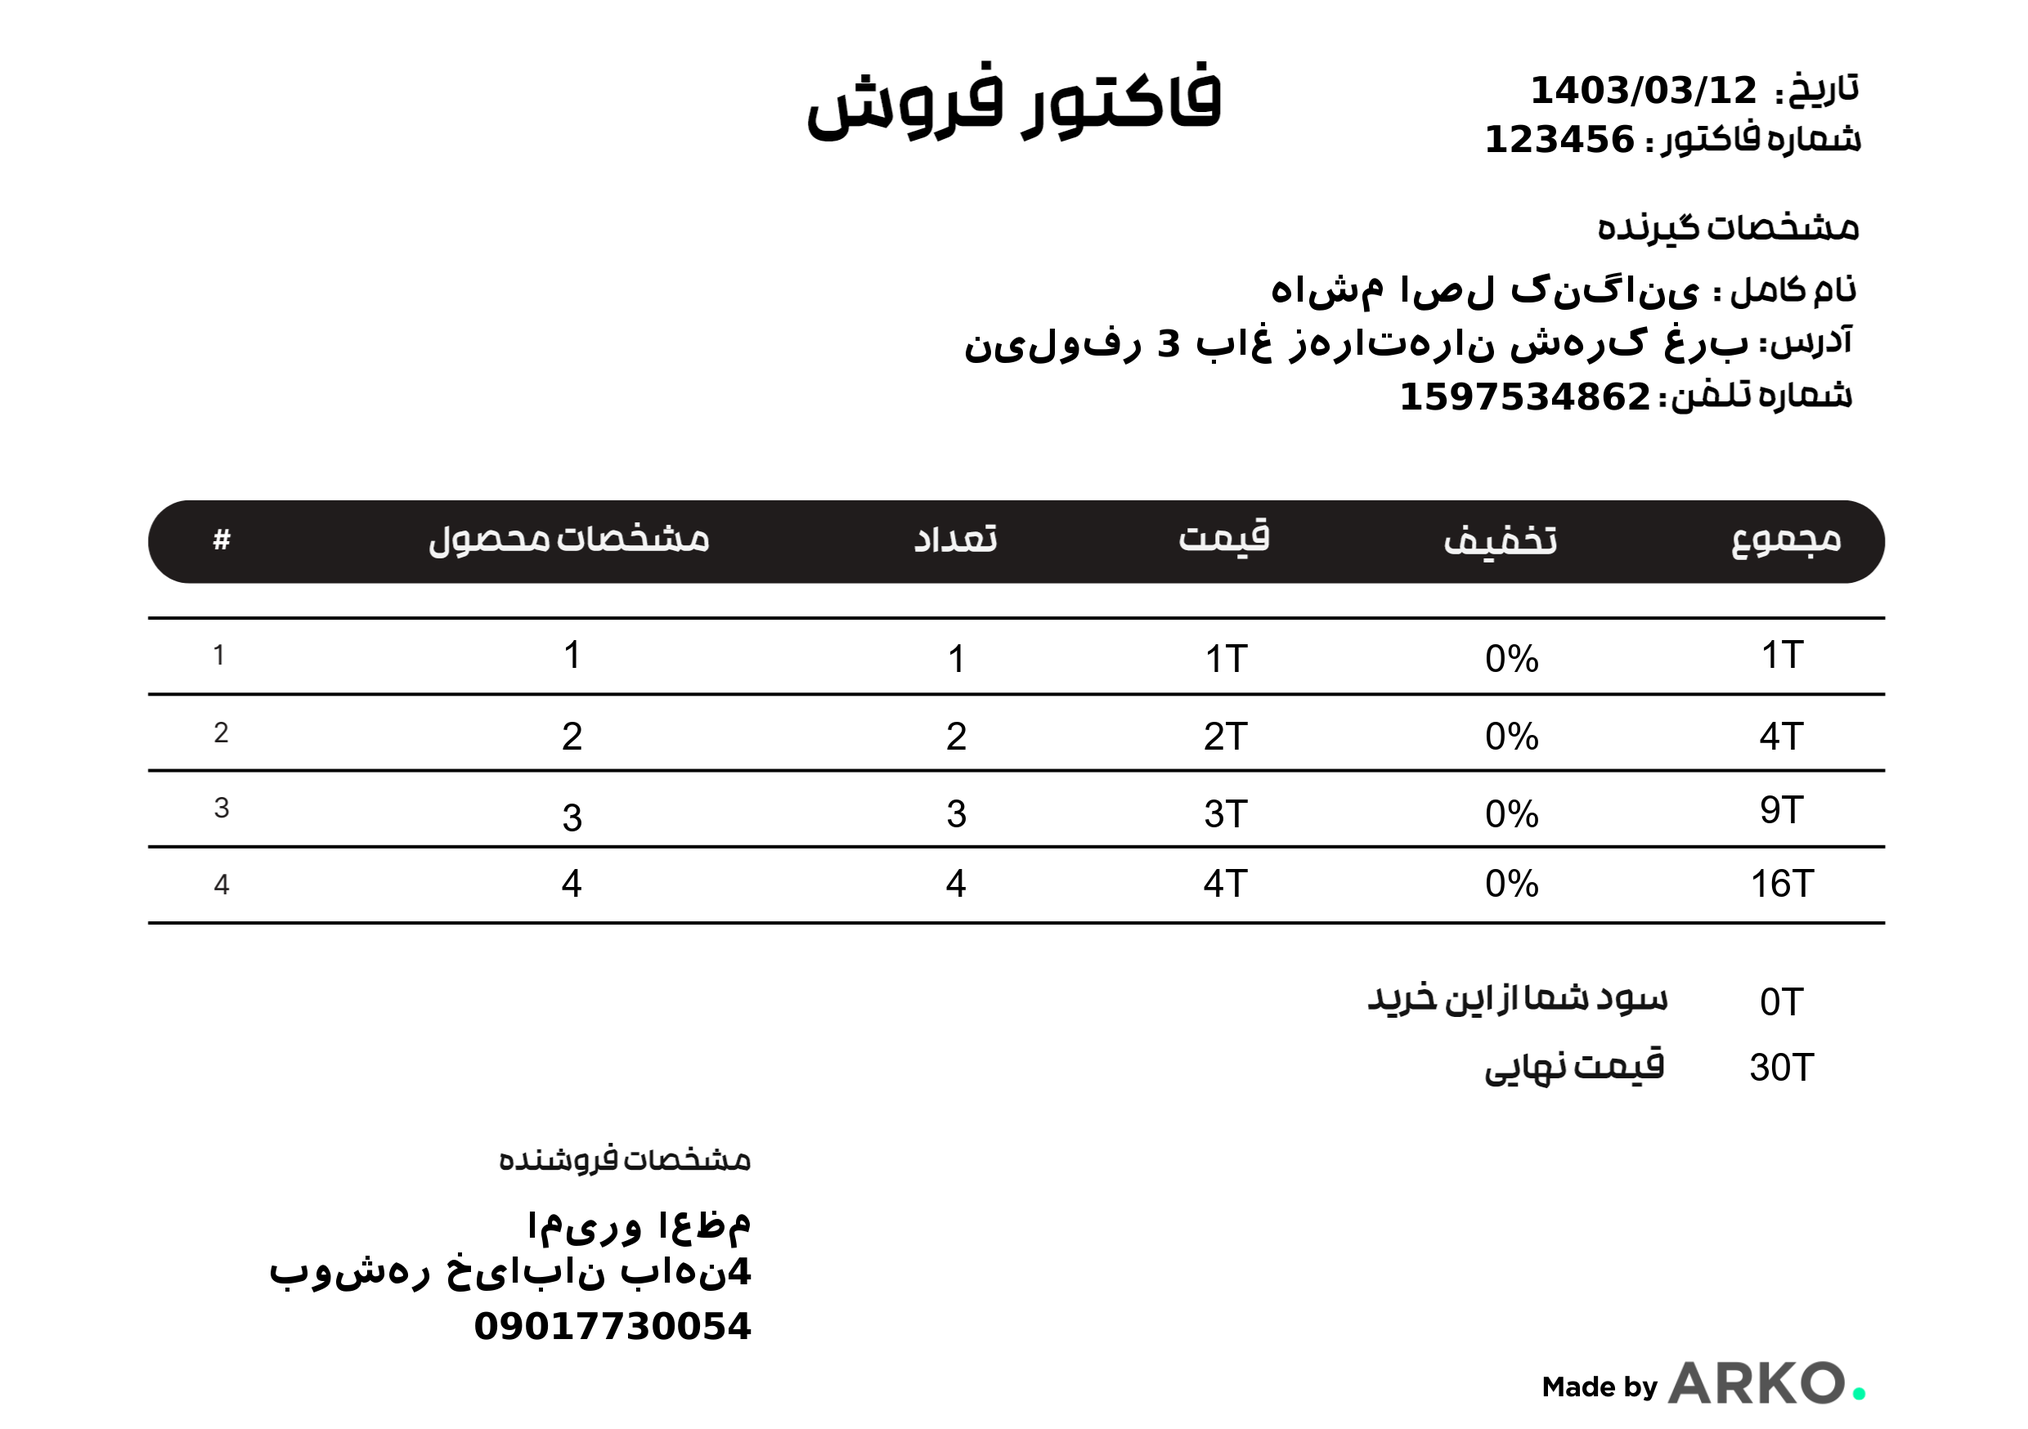
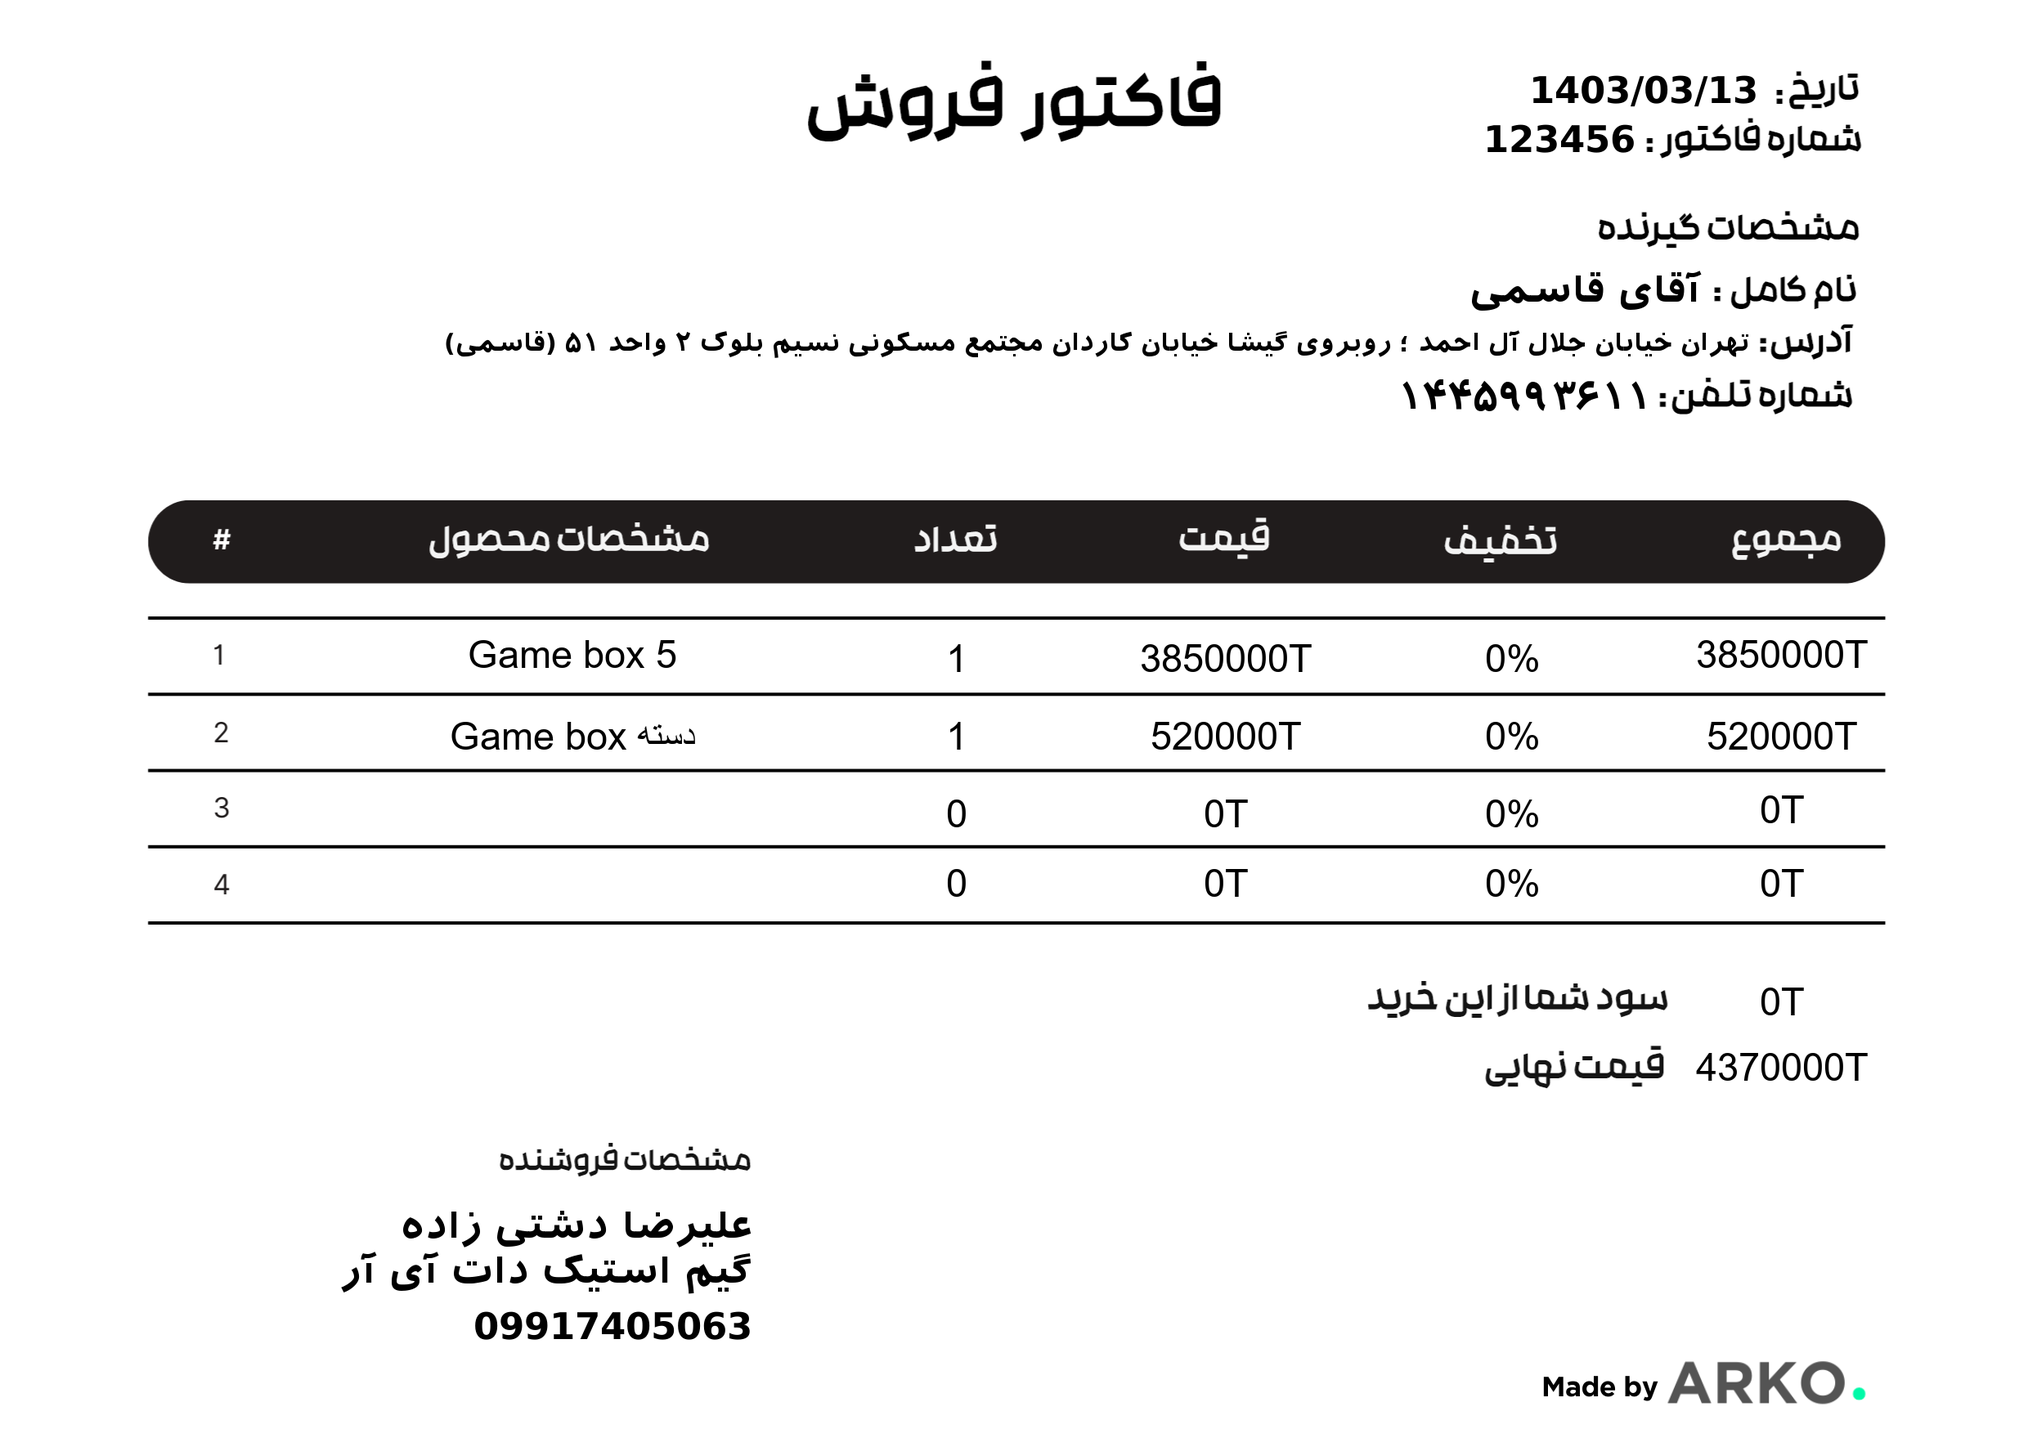
aaaaaa

diff --git a/app/Labelmain.py b/app/Labelmain.py
@@ -17,12 +17,15 @@ def main():
     resetdata()
 
 
-
-LabelInfo={
-    "name" :"",
-    "address" : "",
-    "phone" :"",
-    "Zip" : "",
+sample_data = {
+    "name":"",
+    "address": "",
+    "phone": "",
+    "Zip":"",
+    "seller_name":"امیرو اعظم",
+    "seller_address":"بوشهر خیابان باهنر نبش نیلوفر 3 واحد 4",
+    "seller_number": "09017730054",
+    "seller_postcode" : "159487263",
 }
 InvoiceInfo={
 
@@ -34,6 +37,7 @@ InvoiceInfo={
     'seller_name':"امیرو اعظم",
     "seller_address":"بوشهر خیابان باهن4",
     "seller_number": "09017730054",
+    "seller_zip":"",
     "invoice_num" : "123456",
     "product_name1":"",
     "product_name2":"",
@@ -69,6 +73,7 @@ def resetdata():
     'seller_name':"امیرو اعظم",
     "seller_address":"بوشهر خیابان باهن4",
     "seller_number": "09017730054",
+    "seller_zip":"",
     "invoice_num" : "123456",
     "product_name1":"",
     "product_name2":"",
@@ -88,15 +93,19 @@ def resetdata():
     'qty4': 0,
 }
       LabelInfo={
-    "name" :"",
-    "address" : "",
-    "phone" :"",
-    "Zip" : "",
+    "name":"",
+    "address": "",
+    "phone": "",
+    "Zip":"",
+    "seller_name":"امیرو اعظم",
+    "seller_address":"بوشهر خیابان باهنر نبش نیلوفر 3 واحد 4",
+    "seller_number": "09017730054",
+    "seller_postcode" : "159487263",
         }
 
 def LabelMaker(message):
         
-        LabelInfo.update({"address":message.text})
+        SetSellerInfo(message.from_user.username,LabelInfo)
         img=  Label_class.create_label(LabelInfo)
         img.save("texttest.Png")
         bot.send_photo(message.chat.id,open("texttest.Png","rb"))
@@ -104,30 +113,40 @@ def LabelMaker(message):
         Database.LoseCredits(message.from_user.username)
         resetdata()
 
+def AskCustomerInfoLabel(message):
+    bot.send_message(message.chat.id,"لطفا متن زیر را کپی کنید و اطلاعات مشتری را جایگذاری کنید")
+    bot.send_message(message.chat.id,"نام و نام خانوادگی :\nآدرس :\nشماره تماس :\nکدپستی :")
+    bot.register_next_step_handler(message,lambda m:SetCustomerInfoLabel(m))
 
-def AskName(message):
-        print(LabelInfo)
-        bot.send_message(message.chat.id,"لطفا نام گیرنده را بنویسید")
-        bot.register_next_step_handler(message,AskZip)
+def SetCustomerInfoLabel(message):
+    x=  message.text.splitlines()
+    y=[]
+    info=[]
+    for i in x:
+        for z in (i.split(":")):
+              y.append(z)
+    for i in range(1,8,2):
+        info.append(y[i].strip())
+    LabelInfo.update({"name":info[0]})
+    LabelInfo.update({"address":info[1]})
+    LabelInfo.update({"phone":info[2]})
+    LabelInfo.update({"Zip":info[3]})
+    print(info)
+    LabelMaker(message)
 
-def AskZip(message):
-        print(LabelInfo)
-        LabelInfo.update({"name": message.text})
-        bot.send_message(message.chat.id,"کد پستی وارد کن")
-        bot.register_next_step_handler(message,AskNumLabel)
 
-def AskNumLabel(message):
-        print(LabelInfo)
-        LabelInfo.update({"Zip": message.text})
-        bot.send_message(message.chat.id,"شماره تلفن بزن")
-        bot.register_next_step_handler(message,AskAdrs)    
 
-def AskAdrs(message):
-        print(LabelInfo)
-        LabelInfo.update({"phone": message.text})
-        bot.send_message(message.chat.id,"آدرستم بزن دیکه")
 
-        bot.register_next_step_handler(message,LabelMaker)
+
+
+
+def AskCustomerInfoInvoice(message):
+    
+    bot.send_message(message.chat.id,"لطفا متن زیر را کپی کنید و اطلاعات مشتری را جایگذاری کنید")
+    bot.send_message(message.chat.id,"نام و نام خانوادگی :\nآدرس :\nشماره تماس :")
+    bot.register_next_step_handler(message,lambda m:SetCustomerInfoInvoice(m))
+    bot.register_next_step_handler(message,lambda m:AskItem(m))
+
 
 
 def AskItem(message):
@@ -146,18 +165,27 @@ def SetQuant(message):
         
         BaseName(message,order)
 
+
+
 def BaseName(message,order):
         global itemQuant
         print("order:"+str(order))
         print("message.text:"+message.text)
         print(InvoiceInfo)
         if(itemQuant>0):
-            bot.send_message(message.chat.id,str(order)+"-اسم محصولتان را بنویسید")
-
-            bot.register_next_step_handler(message,lambda m: AskPrice(m,order))
+            AskProductName(message)
         else:
+            SetSellerInfo(message.from_user.username,InvoiceInfo)
             PrintFunc(message)
-          
+
+
+
+
+def AskProductName(message):
+    bot.send_message(message.chat.id,str(order)+"-اسم محصولتان را بنویسید")
+    bot.register_next_step_handler(message,lambda m: AskPrice(m,order))
+
+
 def AskPrice(message,order):
         Prodname=message.text
         InvoiceInfo.update({"product_name"+str(order):Prodname})
@@ -176,7 +204,6 @@ def SetNum(message,order):
         InvoiceInfo.update({"qty"+str(order):int(message.text)})
         itemQuant-=1
         SetQuant(message)
-        
         print(InvoiceInfo)
         
 def PrintFunc(message):
@@ -187,27 +214,64 @@ def PrintFunc(message):
         print(InvoiceInfo)
         Database.LoseCredits(message.from_user.username)
         resetdata()
-def AskInfo(message):
-    bot.send_message(message.chat.id,"لطفا متن زیر را کپی کنید و اطلاعات خودرا جایگذاری کنید")
-    bot.send_message(message.chat.id,"نام و نام خانوادگی :\nآدرس فروشگاه :\nشماره تماس :")
-    bot.register_next_step_handler(message,lambda m:SetInfo(m))
 
-def SetInfo(message):
+
+
+
+
+
+
+
+#get and set User&Customer info
+
+def AskUserInfo(message):
+    bot.send_message(message.chat.id,"لطفا متن زیر را کپی کنید و اطلاعات خودرا جایگذاری کنید")
+    bot.send_message(message.chat.id,"نام و نام خانوادگی :\nآدرس فروشگاه :\nشماره تماس :\nکدپستی :")
+    bot.register_next_step_handler(message,lambda m:UpdateUserInfo(m))
+
+def UpdateUserInfo(message):
     x=  message.text.splitlines()
     y=[]
     info=[]
     for i in x:
         for z in (i.split(":")):
               y.append(z)
-
-    for i in range(1,6,2):
-          print(i)
-          info.append(y[i].strip())
-
+    for i in range(1,8,2):
+        info.append(y[i].strip())
     print(info)
     x=Database.UpdateShopInfo(message.from_user.username,info)
     if(x):
         bot.send_message(message.chat.id,"اطلاعات با موفقیت آپدیت شد!")
+
+def SetCustomerInfoInvoice(message):
+    x=  message.text.splitlines()
+    y=[]
+    info=[]
+    for i in x:
+        for z in (i.split(":")):
+              y.append(z)
+    for i in range(1,6,2):
+        info.append(y[i].strip())
+    InvoiceInfo.update({"name":info[0]})
+    InvoiceInfo.update({"address":info[1]})
+    InvoiceInfo.update({"phone":info[2]})
+    
+
+
+def SetSellerInfo(username,VarInfo):
+
+    info = Database.GetInfo(username)
+    
+    VarInfo.update({"seller_name":info[0]})
+    VarInfo.update({"seller_address":info[1]})
+    VarInfo.update({"seller_number":info[2]})
+    if(VarInfo==LabelInfo):      
+        VarInfo.update({"seller_zip":info[3]})
+    
+
+#####
+
+
 
 
 def ChooseMarkup():
@@ -220,6 +284,7 @@ def ChooseMarkup():
 def CreateNewUser(UserName,message):
       bot.send_message(message.chat.id,"سلام عزیز به ربات خوش اومدی\n بنظر میاد که بار اولته که با ربات ما کار میکنی \n برای شروع کار بهت 10 تا شارژ برای کار با ربات تعلق میگیره!")
       x=Database.CreateUser(UserName)
+      
       if(x==True):
             Startcommand(message)
 
@@ -244,13 +309,15 @@ def Startcommand(message):
 @bot.callback_query_handler(func=lambda pol:True)
 def callbackquery(pol):
     if(pol.data =="Label"):
-        AskName(pol.message)
+        resetdata()
+        AskCustomerInfoLabel(pol.message)
     if(pol.data=="Invoice"):
-        AskItem(pol.message)
+        resetdata()
+        AskCustomerInfoInvoice(pol.message)
     if(pol.data=="Charge"):
         print("Charge")
     if(pol.data=="Info"):
-        AskInfo(pol.message)
+        AskUserInfo(pol.message)
         
 
 

diff --git a/app/lilbaby.py b/app/lilbaby.py
@@ -2,13 +2,6 @@ from PIL import Image, ImageFont, ImageDraw
 import arabic_reshaper
 from bidi.algorithm import get_display
 
-seller_data={
-    'seller_name':'امیرو اعظم',
-    'seller_address':'بوشهر خیابان باهنر نبش نیلوفر 3 واحد 4',
-    'seller_number': '09017730054',
-    'seller_postcode' : '159487263',
-
-}
 def convert(text):
     reshaped_text = arabic_reshaper.reshape(text)
     converted = get_display(reshaped_text)
@@ -20,14 +13,14 @@ def create_label(data):
     draw = ImageDraw.Draw(img)
     # Load a font (you can specify your own font file)
     font = ImageFont.truetype("IranianSansBold.ttf", 24)
-    draw.text((1300, 80), f"{(seller_data['seller_name'])}{('نام:')}", fill='black',anchor="rm" , font=font)
-    draw.text((1300, 115), f"{(seller_data['seller_address'])}{('آدرس:')}", fill='black',anchor="rm", font=font)
-    draw.text((1300, 155), f"{seller_data['seller_postcode']}{('کدپستی:')}", fill='black',anchor="rm", font=font)
-    draw.text((1300, 190), f"{seller_data['seller_number']}{('شماره تلفن:')}", fill='black',anchor="rm", font=font)
-    draw.text((1300, 255), f"{(data['name'])}{('نام:')}", fill='black',anchor="rm" , font=font)
-    draw.text((1300, 290), f"{(data['address'])}{('آدرس:')}", fill='black',anchor="rm", font=font)
-    draw.text((1300, 330), f"{data['Zip']}{('کدپستی:')}", fill='black',anchor="rm", font=font)
-    draw.text((1300, 370), f"{data['phone']}{('شماره تلفن:')}", fill='black',anchor="rm", font=font)
+    draw.text((1300, 80), f"{convert(data['seller_name'])}{convert('نام:')}", fill='black',anchor="rm" , font=font)
+    draw.text((1300, 115), f"{convert(data['seller_address'])}{convert('آدرس:')}", fill='black',anchor="rm", font=font)
+    draw.text((1300, 155), f"{data['seller_postcode']}{convert('کدپستی:')}", fill='black',anchor="rm", font=font)
+    draw.text((1300, 190), f"{data['seller_number']}{convert('شماره تلفن:')}", fill='black',anchor="rm", font=font)
+    draw.text((1300, 255), f"{convert(data['name'])}{convert('نام:')}", fill='black',anchor="rm" , font=font)
+    draw.text((1300, 290), f"{convert(data['address'])}{convert('آدرس:')}", fill='black',anchor="rm", font=font)
+    draw.text((1300, 330), f"{data['Zip']}{convert('کدپستی:')}", fill='black',anchor="rm", font=font)
+    draw.text((1300, 370), f"{data['phone']}{convert('شماره تلفن:')}", fill='black',anchor="rm", font=font)
 
     return img
 
@@ -36,6 +29,10 @@ sample_data = {
     'address': '',
     'phone': "",
     'Zip':'',
+    'seller_name':'امیرو اعظم',
+    'seller_address':'بوشهر خیابان باهنر نبش نیلوفر 3 واحد 4',
+    'seller_number': '09017730054',
+    'seller_postcode' : '159487263',
 }
 def main():
 

diff --git a/app/fixedV2.py b/app/fixedV2.py
@@ -27,6 +27,7 @@ sample_data = {
     'seller_name':"امیرو اعظم",
     "seller_address":"بوشهر خیابان باهن4",
     "seller_number": "09017730054",
+    "seller_zip":"",
     "date" : shamsi_date(),
     "invoice_num" : "123456",
     "product_name1":"لپتاپ اپل شرکتی اصل",
@@ -128,20 +129,20 @@ def create_Invoice(data):
     font = ImageFont.truetype("IranianSansBold.ttf", 45)
     font2 = ImageFont.truetype("arial.ttf", 47)
     
-    
+    #for local testing add convert method behind the datas that represent a string name
     # Draw text on the label
-    draw.text((2080,355), f"{(data['name'])}", fill='black',anchor="rm" , font=font)
-    draw.text((2140,420), f"{(data['address'])}", fill='black',anchor="rm", font=font)
+    draw.text((2080,355), f"{convert(data['name'])}", fill='black',anchor="rm" , font=font)
+    draw.text((2140,420), f"{convert(data['address'])}", fill='black',anchor="rm", font=ImageFont.truetype("IranianSansBold.ttf", 30))
     draw.text((2020,485), f"{data['phone']}", fill='black',anchor="rm", font=font)
-    draw.text((920,1500), f"{(data['seller_name'])}", fill='black',anchor="rm" , font=font)
-    draw.text((920,1555), f"{(data['seller_address'])}", fill='black',anchor="rm", font=font)
+    draw.text((920,1500), f"{convert(data['seller_name'])}", fill='black',anchor="rm" , font=font)
+    draw.text((920,1555), f"{convert(data['seller_address'])}", fill='black',anchor="rm", font=font)
     draw.text((920,1622), f"{data['seller_number']}", fill='black',anchor="rm", font=font)
     draw.text((2150,110), f"{data['date']}", fill='black',anchor="rm", font=font)
     draw.text((2000,170), f"{data['invoice_num']}", fill='black',anchor="rm", font=font)
-    draw.text((700,800), f"{(data['product_name1'])}", fill='black',anchor="mm", font=font2)
-    draw.text((700,900), f"{(data['product_name2'])}", fill='black',anchor="mm", font=font2)
-    draw.text((700,1000), f"{(data['product_name3'])}", fill='black',anchor="mm", font=font2)
-    draw.text((700,1080), f"{(data['product_name4'])}", fill='black',anchor="mm", font=font2)
+    draw.text((700,800), f"{convert(data['product_name1'])}", fill='black',anchor="mm", font=font2)
+    draw.text((700,900), f"{convert(data['product_name2'])}", fill='black',anchor="mm", font=font2)
+    draw.text((700,1000), f"{convert(data['product_name3'])}", fill='black',anchor="mm", font=font2)
+    draw.text((700,1080), f"{convert(data['product_name4'])}", fill='black',anchor="mm", font=font2)
     draw.text((1850,805), f"{data['product_discount1']}{('%')}", fill='black',anchor="mm", font=font2)
     draw.text((1850,900), f"{data['product_discount2']}{('%')}", fill='black',anchor="mm", font=font2)
     draw.text((1850,995), f"{data['product_discount3']}{('%')}", fill='black',anchor="mm", font=font2)

diff --git a/app/Database.py b/app/Database.py
@@ -119,13 +119,31 @@ def UpdateShopInfo(username,info):
         print("Connected to MySQL successfully.")
         print(connection)
         executer=connection.cursor()
-        executer.execute('UPDATE users SET FullName = "{0}" , Address = "{1}", PhoneNumber = "{2}" WHERE UserName = "{3}"'.format(info[0],info[1],info[2],username))
+        executer.execute('UPDATE users SET FullName = "{0}" , Address = "{1}", PhoneNumber = "{2}",Zip_Code = "{3}" WHERE UserName = "{4}"'.format(info[0],info[1],info[2],info[3],username))
         connection.commit()
         print("info updated!")
         return True
     except mysql.connector.Error as err:
         logger.error(f"Failed to connect to MySQL: {err}")
         return False
+def GetInfo(username):
+    try:
+        connection = mysql.connector.connect(
+                user="root",
+                password="TGIydaGzqj8nkXiR40rkLRtH0HSlkGPL",
+                host="a6aeb8a2-34b1-4713-b85c-7375e8c5aff2.hsvc.ir",
+                database="mainDB",
+                port=30248
+        )
+        print("Connected to MySQL successfully.")
+        print(connection)
+        executer=connection.cursor()
+        executer.execute('Select FullName, Address, PhoneNumber,Zip_Code FROM users WHERE UserName = "{}"'.format(username))
+        result=executer.fetchone()
+        print(result)
+        return result
         
+    except mysql.connector.Error as err:
+        logger.error(f"Failed to connect to MySQL: {err}")
 if __name__=="__main__":
     main()
